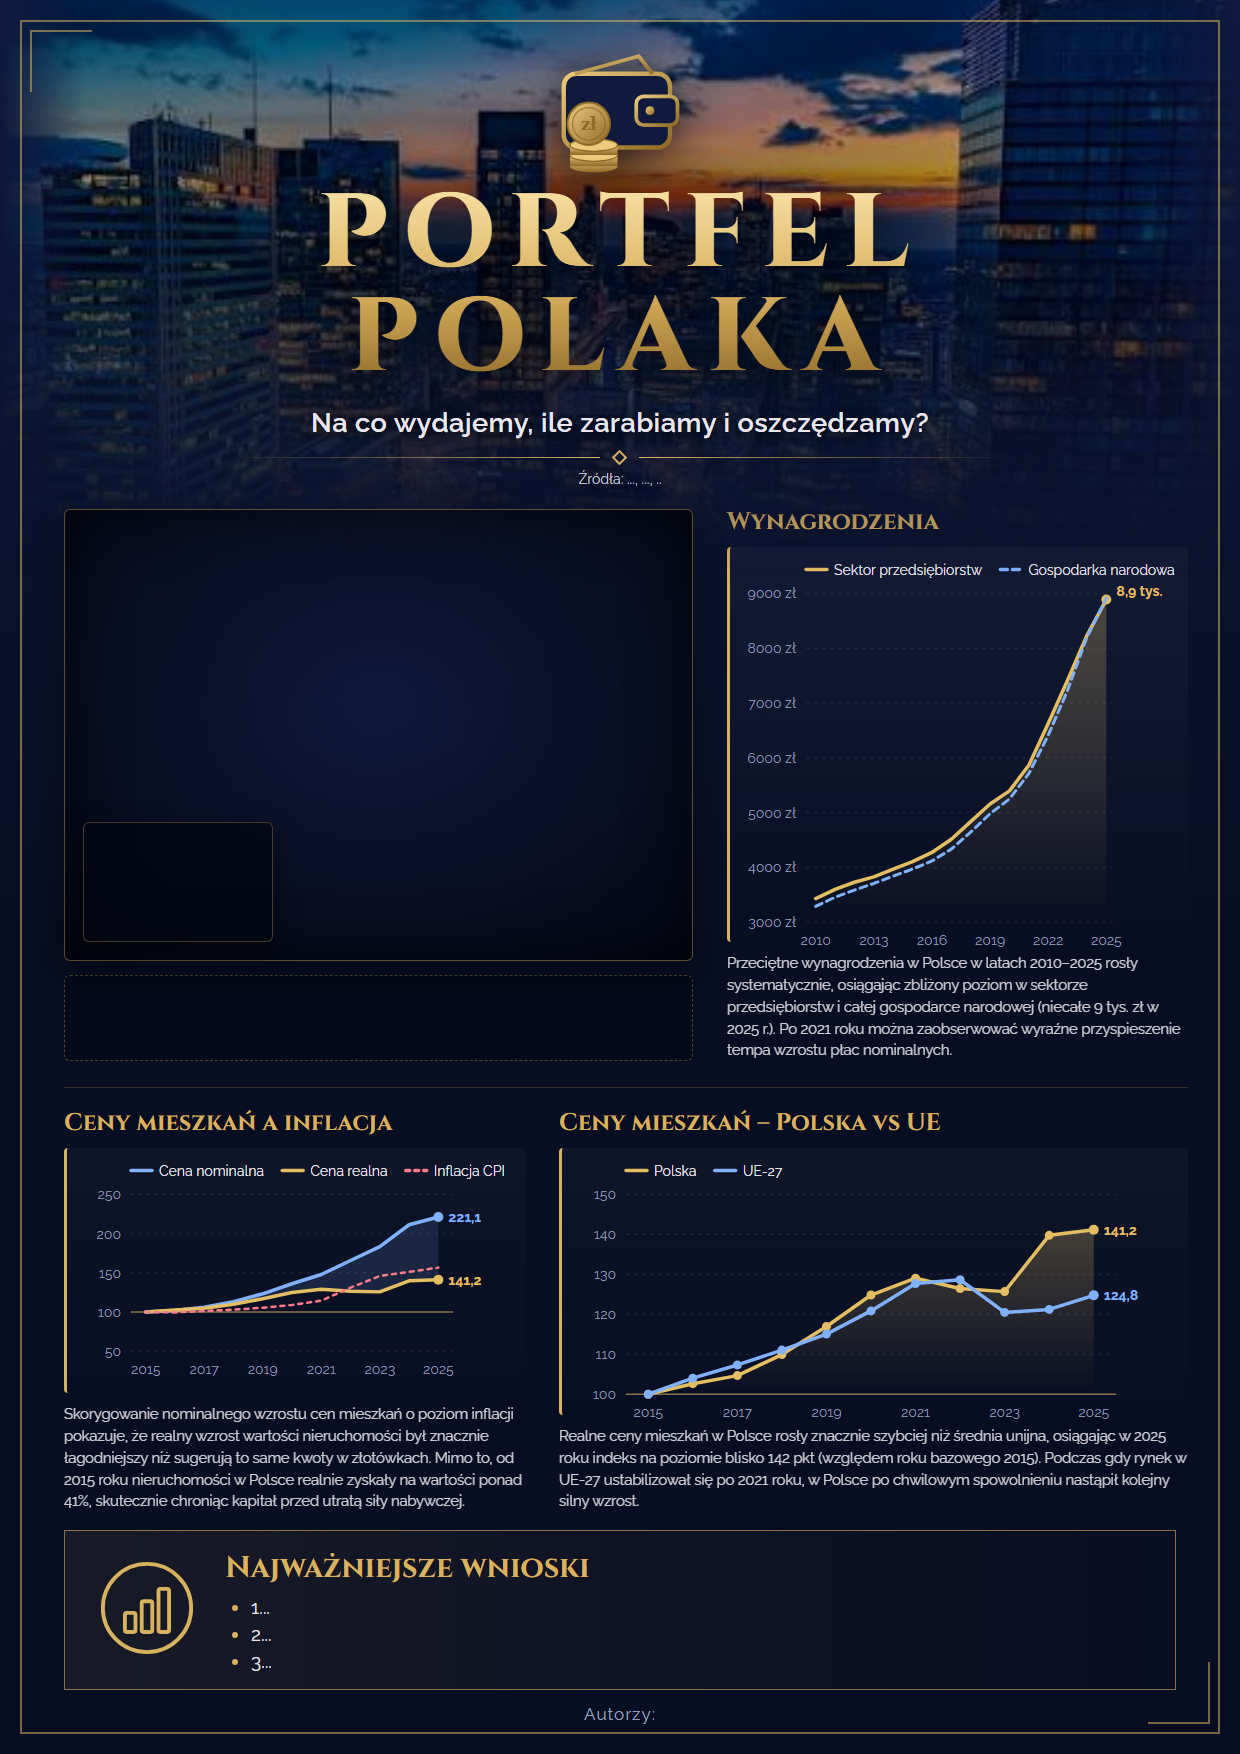
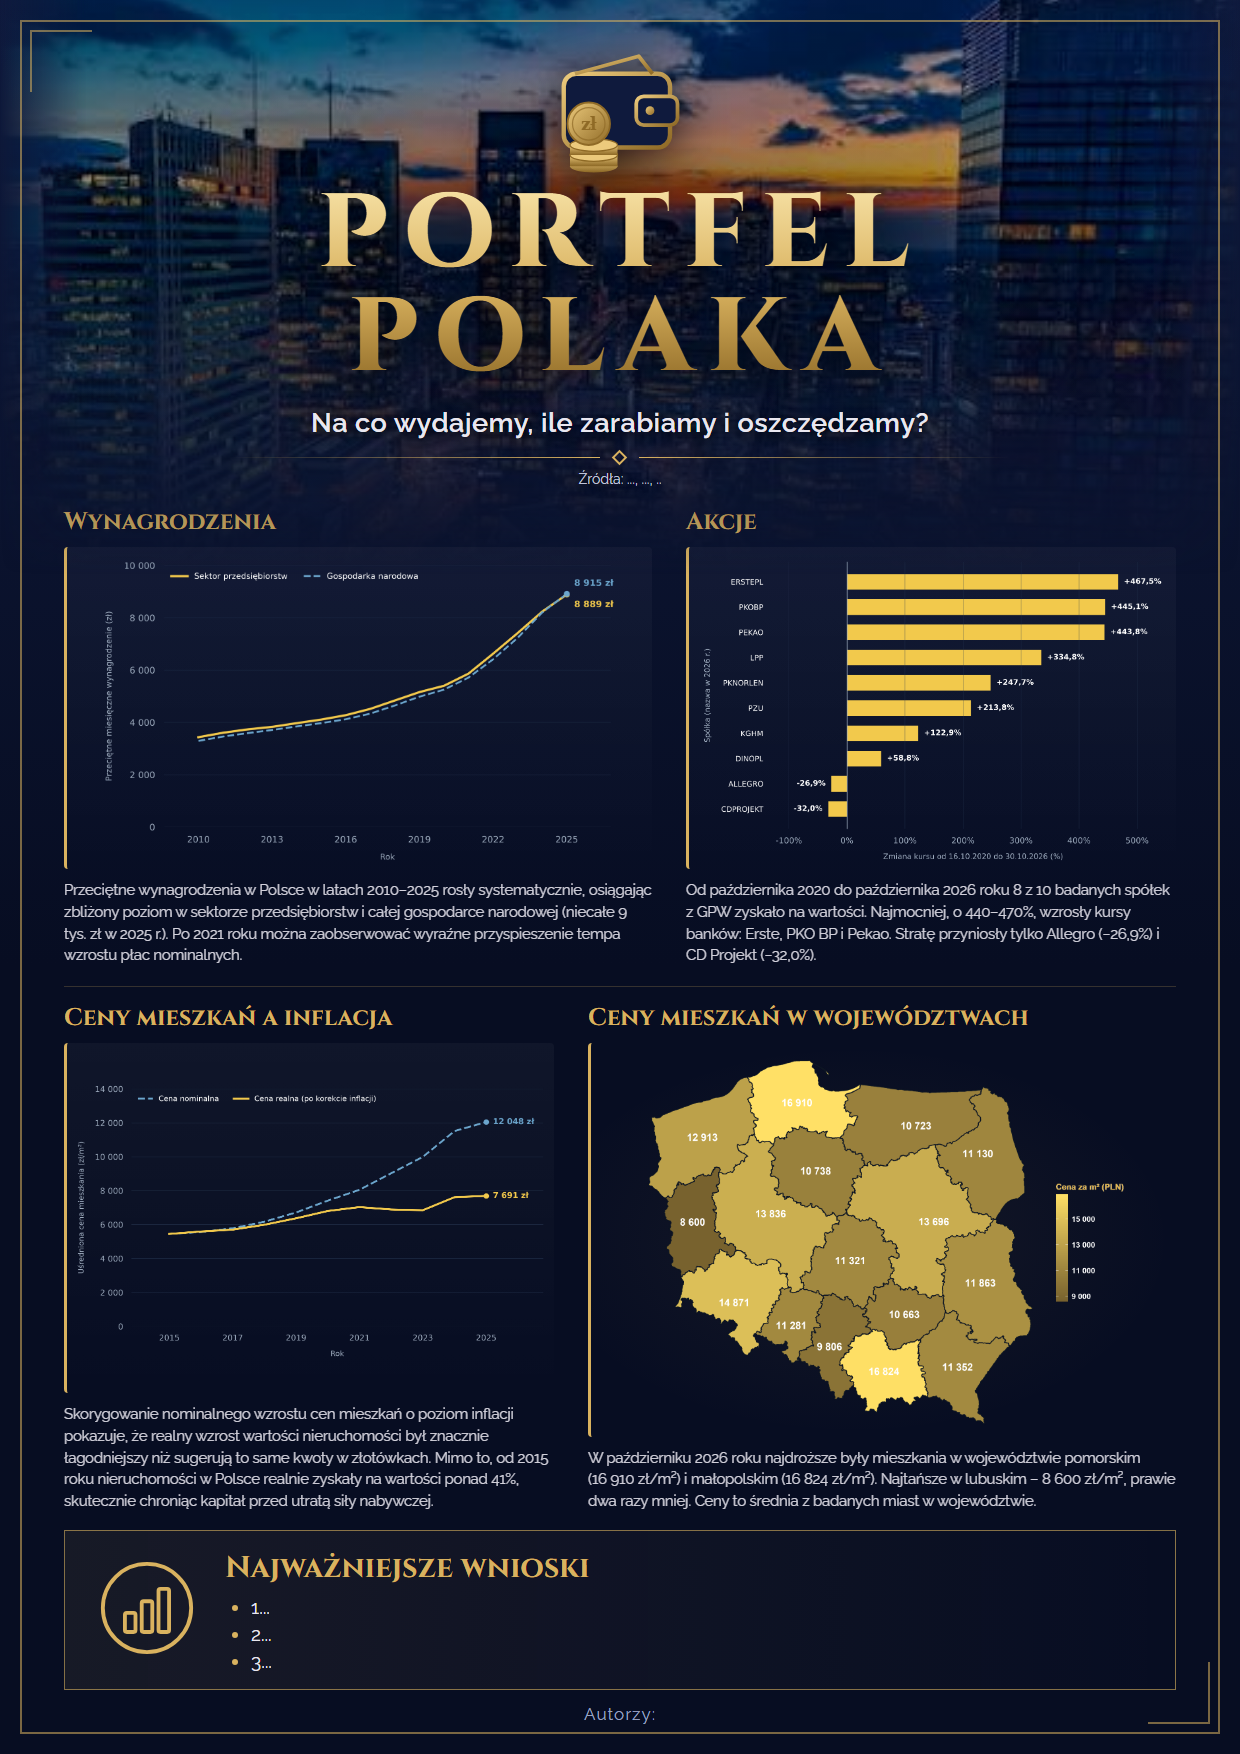
Plakat 5: kolejność wykresów, kartogram i opisy
Kolejność: Wynagrodzenia, Akcje, Ceny mieszkań a inflacja, Ceny mieszkań
w województwach. Wykresy PNG z wykresy_plakat (przycięte marginesy),
kartogram z przezroczystym tłem i nagłówkiem w stylu plakatu.
Dodane opisy do Akcji i kartogramu (do sprawdzenia przez autorów).

diff --git a/Miejsce na plakat/src/kartogram5.html b/Miejsce na plakat/src/kartogram5.html
@@ -5,14 +5,12 @@
 <link rel="stylesheet" href="v2baza.css">
 <link rel="stylesheet" href="druk.css">
 <style>
-main{display:grid;grid-template-rows:1.3fr 1fr;gap:26px}
+main{display:grid;grid-template-rows:1fr 1.15fr;gap:20px}
 .rzad{display:grid;gap:34px;min-height:0}
-.rzad.r1{grid-template-columns:1.4fr 1fr}
-.rzad.r2{grid-template-columns:1fr 1.4fr;padding-top:22px;border-top:1px solid var(--line)}
-.blok{display:flex;flex-direction:column;gap:14px;min-height:0}
-.blok .mapa{flex:1;position:relative}
-.blok .legenda{position:absolute;left:18px;bottom:18px;width:190px;height:120px;box-shadow:0 8px 24px rgba(0,0,0,.5)}
-.blok .pole-tekst{height:86px}
+.rzad.r1{grid-template-columns:1.2fr 1fr}
+.rzad.r2{grid-template-columns:1fr 1.2fr;padding-top:18px;border-top:1px solid var(--line)}
+.w img{width:100%;height:100%;object-fit:contain;display:block}
+.k-mapa .w{padding:12px 10px 8px;background:radial-gradient(ellipse at 45% 50%,rgba(217,178,95,.07),transparent 70%)}
 .karta{gap:10px}
 h2{font-size:24px}
 p{font-size:14.5px;line-height:1.5}
@@ -28,7 +26,7 @@ p{font-size:14.5px;line-height:1.5}
   <div class="orn"><i></i><b></b><i></i></div>
   <div class="zr" data-t="zrodla"></div>
 </header>
-<main><div class="rzad r1"><div class="blok"><div class="mapa"><div class="legenda"></div></div><div class="pole-tekst"></div></div><section class="karta k-wyn "><h2 data-t="wyn.t"></h2><div class="w" id="w-wyn"></div><p data-t="wyn.d"></p></section></div><div class="rzad r2"><section class="karta k-infl "><h2 data-t="infl.t"></h2><div class="w" id="w-infl"></div><p data-t="infl.d"></p></section><section class="karta k-ue "><h2 data-t="ue.t"></h2><div class="w" id="w-ue"></div><p data-t="ue.d"></p></section></div></main>
+<main><div class="rzad r1"><section class="karta k-wyn"><h2 data-t="wyn.t"></h2><div class="w"><img src="../wykresy/01_wynagrodzenia.png" alt=""></div><p data-t="wyn.d"></p></section><section class="karta k-akcje"><h2 data-t="akcje.t"></h2><div class="w"><img src="../wykresy/04_akcje_gpw.png" alt=""></div><p data-t="akcje.d"></p></section></div><div class="rzad r2"><section class="karta k-infl"><h2 data-t="infl.t"></h2><div class="w"><img src="../wykresy/06_ceny_mieszkan_pln.png" alt=""></div><p data-t="infl.d"></p></section><section class="karta k-mapa"><h2 data-t="mapa.t"></h2><div class="w"><img src="../mapa/kartogram.png" alt=""></div><p data-t="mapa.d"></p></section></div></main>
 <section class="wnioski">
   <div class="ik" id="ik2"></div>
   <div><h3 data-t="wnioski"></h3><ul><li>1...</li><li>2...</li><li>3...</li></ul></div>

diff --git a/Miejsce na plakat/src/common.js b/Miejsce na plakat/src/common.js
@@ -10,6 +10,14 @@ const TEKSTY = {
     t: "Wynagrodzenia",
     d: "Przeciętne wynagrodzenia w Polsce w latach 2010–2025 rosły systematycznie, osiągając zbliżony poziom w sektorze przedsiębiorstw i całej gospodarce narodowej (niecałe 9 tys. zł w 2025 r.). Po 2021 roku można zaobserwować wyraźne przyspieszenie tempa wzrostu płac nominalnych.",
   },
+  akcje: {
+    t: "Akcje",
+    d: "Od października 2020 do października 2026 roku 8 z 10 badanych spółek z GPW zyskało na wartości. Najmocniej, o 440–470%, wzrosły kursy banków: Erste, PKO BP i Pekao. Stratę przyniosły tylko Allegro (−26,9%) i CD Projekt (−32,0%).",
+  },
+  mapa: {
+    t: "Ceny mieszkań w województwach",
+    d: "W październiku 2026 roku najdroższe były mieszkania w województwie pomorskim (16 910 zł/m²) i małopolskim (16 824 zł/m²). Najtańsze w lubuskim – 8 600 zł/m², prawie dwa razy mniej. Ceny to średnia z badanych miast w województwie.",
+  },
   infl: {
     t: "Ceny mieszkań a inflacja",
     d: "Skorygowanie nominalnego wzrostu cen mieszkań o poziom inflacji pokazuje, że realny wzrost wartości nieruchomości był znacznie łagodniejszy niż sugerują to same kwoty w złotówkach. Mimo to, od 2015 roku nieruchomości w Polsce realnie zyskały na wartości ponad 41%, skutecznie chroniąc kapitał przed utratą siły nabywczej.",

diff --git a/Miejsce na plakat/src/gen_kartogram.py b/Miejsce na plakat/src/gen_kartogram.py
@@ -124,22 +124,32 @@ main p{font-size:14.5px;line-height:1.5}
      + '<div class="blok-mapy"><div class="mapa"></div><div class="dol"><div class="legenda"></div><div class="pole-tekst"></div></div></div></div>\n'
      + "<main>" + karta("wyn") + karta("infl") + karta("ue") + "</main>\n" + WNIOSKI + FOOTER)
 
-# 5. Przekątna – duży kartogram z legendą nałożoną na róg mapy; szerokości kolumn zamieniają się w rzędach
+def karta_img(k, plik):
+    """Karta z gotowym wykresem PNG (z przezroczystym tłem) zamiast wykresu rysowanego w JS."""
+    return (f'<section class="karta k-{k}"><h2 data-t="{k}.t"></h2>'
+            f'<div class="w"><img src="{plik}" alt=""></div><p data-t="{k}.d"></p></section>')
+
+
+# 5. Przekątna – kolejność: 1 Wynagrodzenia, 2 Akcje, 3 Ceny mieszkań, 4 Kartogram.
+#    Obrazy przygotowuje przygotuj_obrazy.py (przycięte wykresy w ../wykresy, kartogram w ../mapa).
 UKLADY[5] = ("Kartogram 5 – przekątna", """
-main{display:grid;grid-template-rows:1.3fr 1fr;gap:26px}
+main{display:grid;grid-template-rows:1fr 1.15fr;gap:20px}
 .rzad{display:grid;gap:34px;min-height:0}
-.rzad.r1{grid-template-columns:1.4fr 1fr}
-.rzad.r2{grid-template-columns:1fr 1.4fr;padding-top:22px;border-top:1px solid var(--line)}
-.blok{display:flex;flex-direction:column;gap:14px;min-height:0}
-.blok .mapa{flex:1;position:relative}
-.blok .legenda{position:absolute;left:18px;bottom:18px;width:190px;height:120px;box-shadow:0 8px 24px rgba(0,0,0,.5)}
-.blok .pole-tekst{height:86px}
+.rzad.r1{grid-template-columns:1.2fr 1fr}
+.rzad.r2{grid-template-columns:1fr 1.2fr;padding-top:18px;border-top:1px solid var(--line)}
+.w img{width:100%;height:100%;object-fit:contain;display:block}
+.k-mapa .w{padding:12px 10px 8px;background:radial-gradient(ellipse at 45% 50%,rgba(217,178,95,.07),transparent 70%)}
 .karta{gap:10px}
 h2{font-size:24px}
 p{font-size:14.5px;line-height:1.5}
 .wnioski{height:160px}
-""", HEADER + '<main><div class="rzad r1"><div class="blok"><div class="mapa"><div class="legenda"></div></div><div class="pole-tekst"></div></div>'
-     + karta("wyn") + '</div><div class="rzad r2">' + karta("infl") + karta("ue") + "</div></main>\n" + WNIOSKI + FOOTER)
+""", HEADER + '<main><div class="rzad r1">'
+     + karta_img("wyn", "../wykresy/01_wynagrodzenia.png")
+     + karta_img("akcje", "../wykresy/04_akcje_gpw.png")
+     + '</div><div class="rzad r2">'
+     + karta_img("infl", "../wykresy/06_ceny_mieszkan_pln.png")
+     + karta_img("mapa", "../mapa/kartogram.png")
+     + "</div></main>\n" + WNIOSKI + FOOTER)
 
 here = os.path.dirname(os.path.abspath(__file__))
 for n, (title, css, body) in UKLADY.items():

diff --git a/Miejsce na plakat/src/przygotuj_obrazy.py b/Miejsce na plakat/src/przygotuj_obrazy.py
@@ -1,0 +1,34 @@
+"""Przygotowuje obrazy wykresów do plakatu (wymaga Pillow). Uruchom: python przygotuj_obrazy.py
+- wykresy z ../../wykresy_plakat: przycina puste (przezroczyste) marginesy -> ../wykresy/
+- kartogram ../../kartogram_plakat_R.png: tło (253,254,253) -> przezroczyste, wycina tytuł
+  wpisany w obraz (jest nagłówkiem karty na plakacie), przycina marginesy -> ../mapa/kartogram.png
+"""
+import os
+from PIL import Image
+
+here = os.path.dirname(os.path.abspath(__file__))
+repo = os.path.normpath(os.path.join(here, "..", ".."))
+plakat = os.path.normpath(os.path.join(here, ".."))
+
+
+def przytnij(im, pad=30):
+    x0, y0, x1, y1 = im.getchannel("A").getbbox()
+    return im.crop((max(x0 - pad, 0), max(y0 - pad, 0), min(x1 + pad, im.width), min(y1 + pad, im.height)))
+
+
+os.makedirs(os.path.join(plakat, "wykresy"), exist_ok=True)
+for n in ("01_wynagrodzenia.png", "04_akcje_gpw.png", "06_ceny_mieszkan_pln.png"):
+    im = Image.open(os.path.join(repo, "wykresy_plakat", n)).convert("RGBA")
+    przytnij(im).save(os.path.join(plakat, "wykresy", n))
+
+BG = (253, 254, 253)
+im = Image.open(os.path.join(repo, "kartogram_plakat_R.png")).convert("RGBA")
+im.putdata([
+    (r, g, b, 0) if max(abs(r - BG[0]), abs(g - BG[1]), abs(b - BG[2])) <= 1 and (r, g, b) != (255, 255, 255)
+    else (r, g, b, a)
+    for r, g, b, a in im.getdata()
+])
+im = im.crop((0, 300, im.width, im.height))  # bez tytułu i podtytułu z R
+os.makedirs(os.path.join(plakat, "mapa"), exist_ok=True)
+przytnij(im).save(os.path.join(plakat, "mapa", "kartogram.png"))
+print("ok")

diff --git a/Miejsce na plakat/CLAUDE.md b/Miejsce na plakat/CLAUDE.md
@@ -18,6 +18,13 @@ a headless Chrome robi z tego PNG. Komunikuj się z użytkownikiem po polsku.
 
 Na plakacie zostają 3 wykresy: Wynagrodzenia, Ceny mieszkań a inflacja, Ceny mieszkań – Polska vs UE.
 
+**Układ 5 (stan na 20.11.2026):** kolejność 1 Wynagrodzenia, 2 Akcje, 3 Ceny mieszkań (nominalne vs realne), 4 Kartogram.
+Wykresy to gotowe PNG (rysuje je `kody_i_csv/przygotowaniewykresow.py`), a nie silnik JS.
+`src/przygotuj_obrazy.py` przycina je do `wykresy/` i robi `mapa/kartogram.png` z `kartogram_plakat_R.png`
+(przezroczyste tło, wycięty tytuł z R, bo tytuł jest nagłówkiem karty). Po zmianie PNG uruchom go ponownie.
+Opisy `TEKSTY.akcje.d` i `TEKSTY.mapa.d` napisał Claude na prośbę właściciela, na podstawie liczb z wykresów;
+autorzy mają je sprawdzić.
+
 ## Zasady ustalone z autorami (przestrzegaj ich)
 
 - **Nie dodawaj żadnych tekstów spoza oryginalnego plakatu.** Dozwolone są tylko: tytuł, podtytuł, „Źródła: …”,
